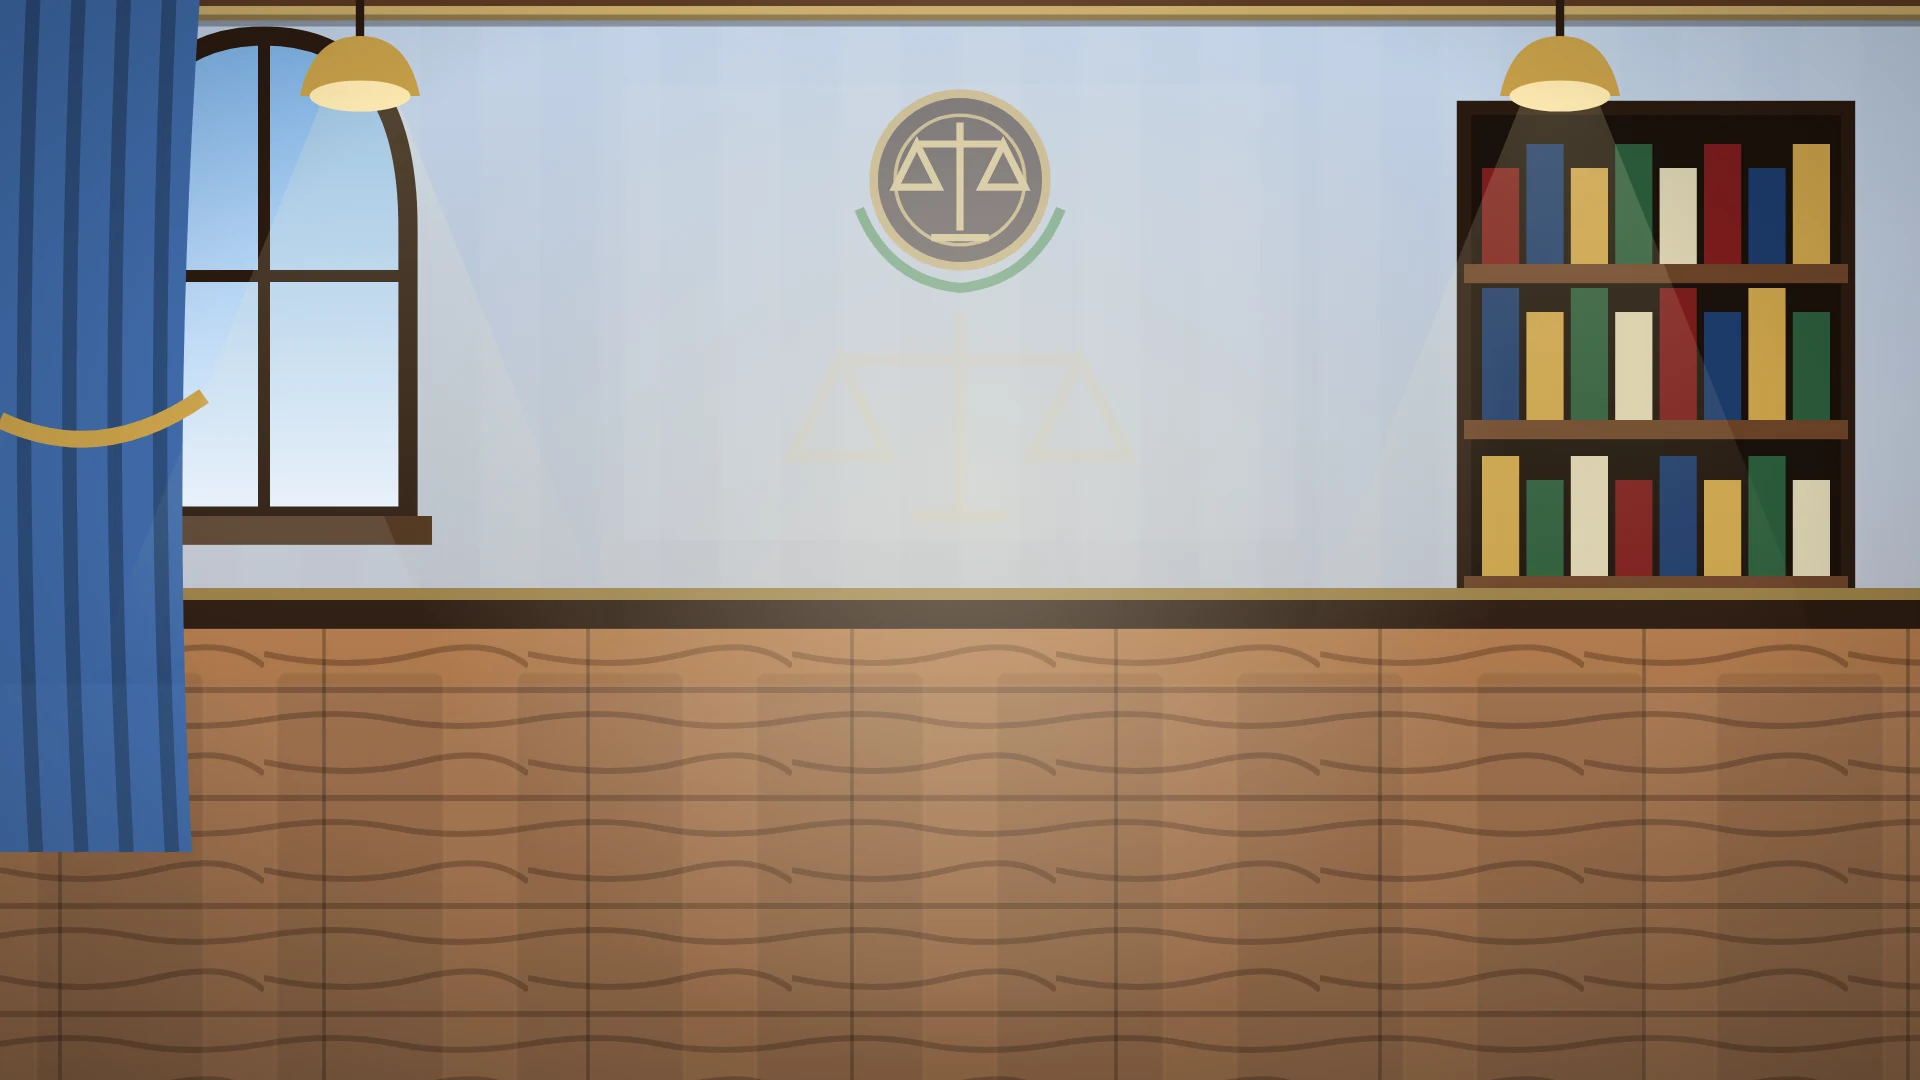
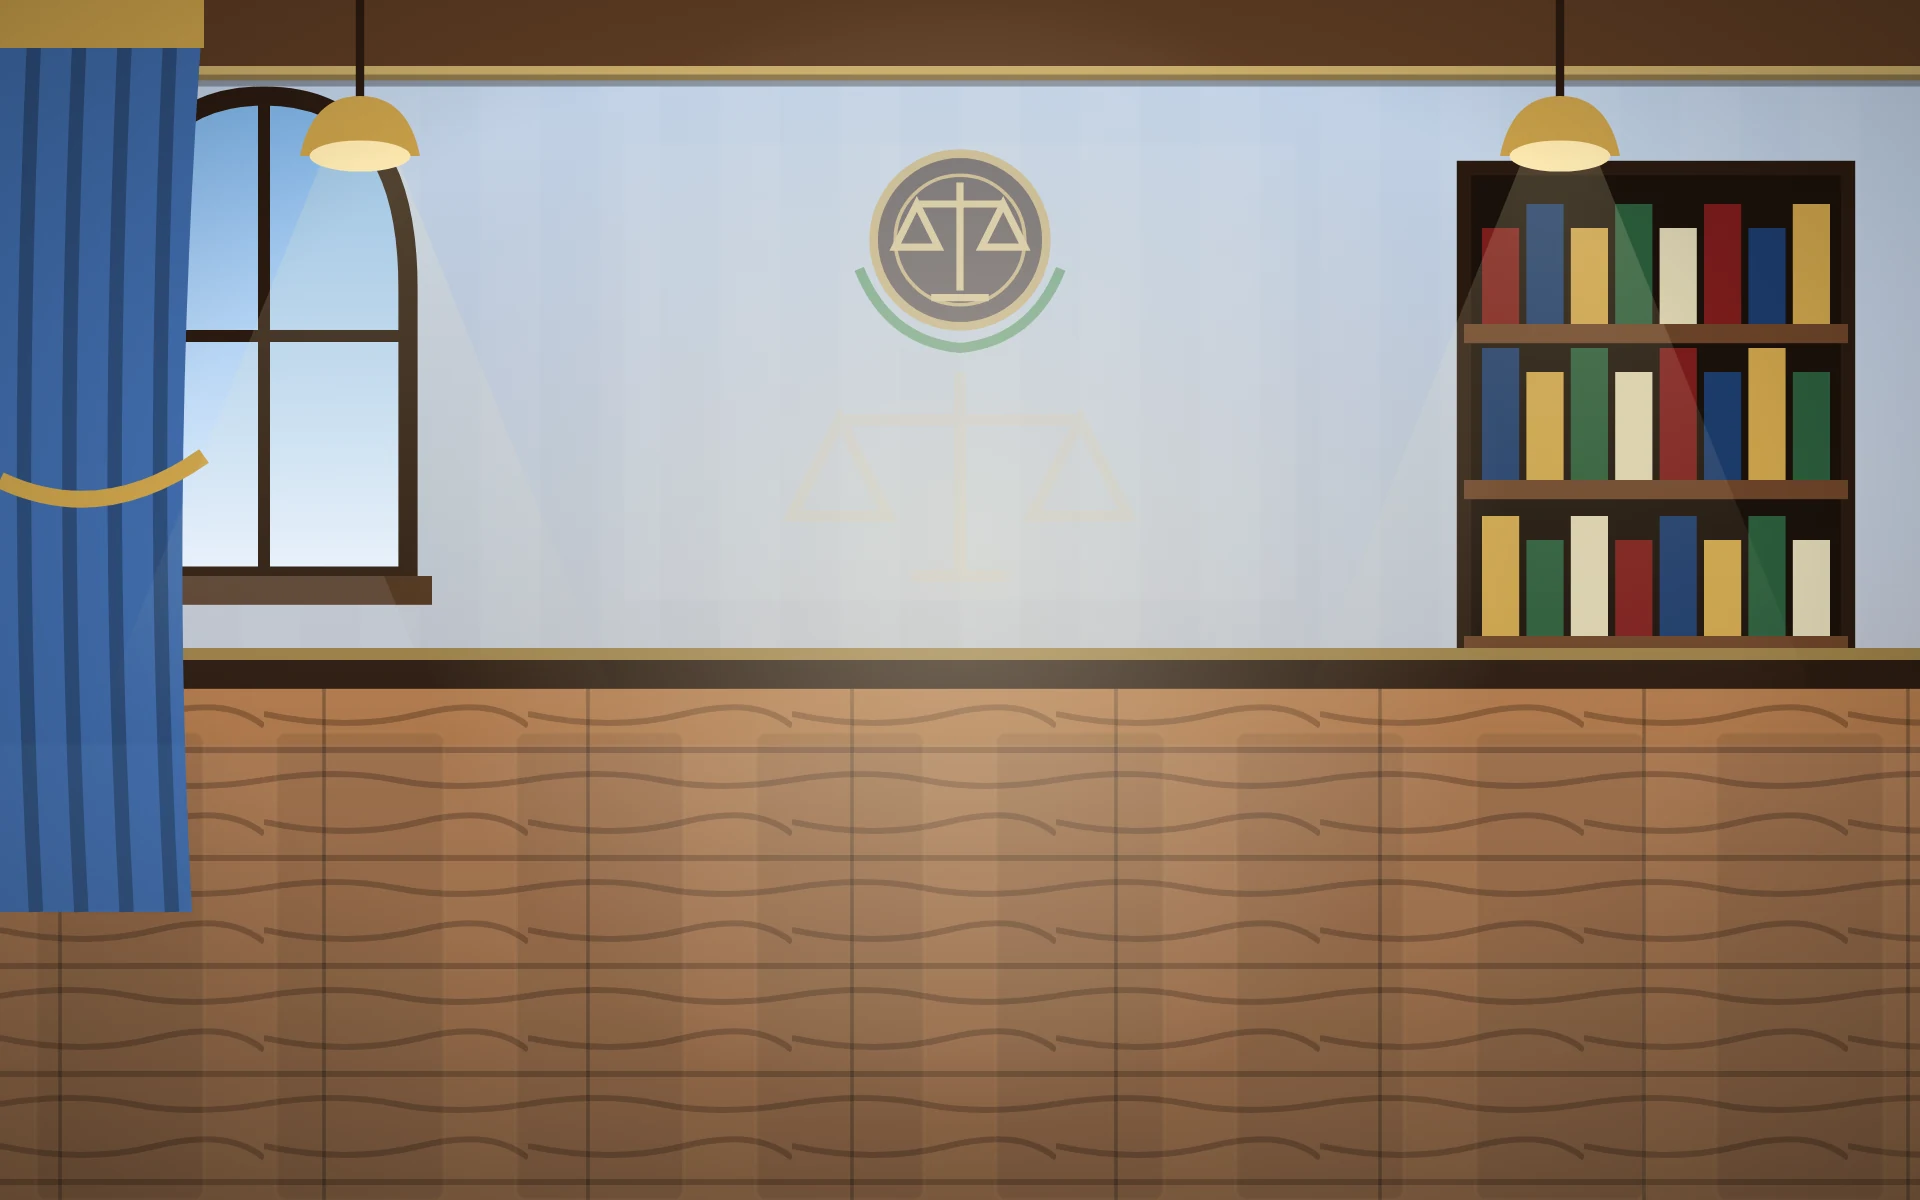
art(cenarios): exporta em 1920x1200 (16:10, proporção do palco) para não cortar as bordas

diff --git a/tools/cenarios/render.py b/tools/cenarios/render.py
@@ -1,4 +1,4 @@
-"""Renderiza tools/cenarios/*.svg (ou os nomes passados) para web/cenarios/<nome>.webp (1920x1080) via Edge headless + Pillow.
+"""Renderiza tools/cenarios/*.svg (ou os nomes passados) para web/cenarios/<nome>.webp (1920x1200, 16:10 como o palco do jogo) via Edge headless + Pillow.
 
 Uso: python tools/cenarios/render.py [nome ...] [--qualidade 88]
 O SVG é mostrado em 100vw x 100vh com preserveAspectRatio="xMidYMid slice" (igual ao jogo, que usa object-fit: cover).
@@ -13,7 +13,7 @@ from PIL import Image
 EDGE = r"C:/Program Files (x86)/Microsoft/Edge/Application/msedge.exe"
 AQUI = Path(__file__).resolve().parent
 SAIDA = AQUI.parents[1] / "services/arena/src/vade_arena/web/cenarios"
-L, A = 1920, 1080
+L, A = 1920, 1200
 
 
 def renderizar(svg: Path, qualidade: int) -> Path:
